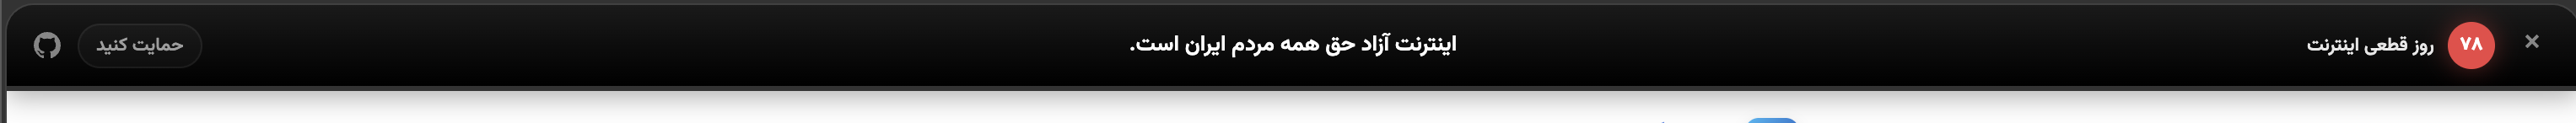
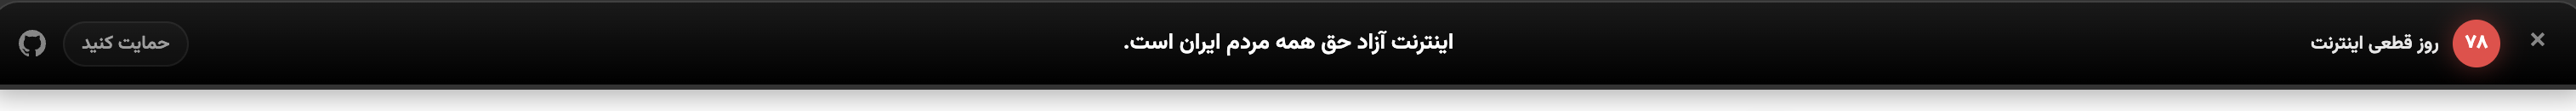
improvement

diff --git a/README.md b/README.md
@@ -1,0 +1,101 @@
+# 🚫  اینترنت آزاد حق همه مردم ایران است
+
+<div dir="rtl">
+یک ابزار ساده برای اعتراض به محدودیتهای اینترنت در ایران.
+
+با اضافه کردن یک خط کد به وبسایت خود، صدای مردم در روزهای سیاهی و سختی دیجیتال باشید.
+
+## نمونه
+![Demo Small Size](demo-sm.png)
+![Demo Medium Size](demo-md.png)
+![Demo Large Size](demo-lg.png)
+
+
+(متن و اندازه قابل تغییر است)
+
+## چرا؟
+
+
+اینترنت طبقاتی (پرو) رشد و پیشرفت را در انحصار گروههای خاص (پردرآمدها، سیاستمداران، دانشگاهیان و...) میکند تا از طریق منافع فکری،اقتصادی و سیاسی اقلیتهای خاص را حفظ کند.
+
+هدف اینترنت طبقاتی امنیت است اما امنیت همان گروههای خاص: گروههایی که سالهاست به نام صیانت، به نام اقتصاد و حاکمیت مجازی و امروز به نام امنیت به دنبال قطعی و محدودسازی اینترنت هستند. چرا که با اینترنت محدود راحتتر میشود تودههای مردم را کنترل کرد و جلوی صداهای متفاوت و ایدههای تازه را گرفت.
+
+---
+
+##  شروع سریع
+
+کافیست کد زیر را بعد تگ `<body>` وبسایت خود قرار دهید:
+
+```html
+<script src="https://unpkg.com/iran-net-protest-banner@latest/protest.js"></script>
+```
+
+> [!TIP]
+> با توجه به احتمال بسته شدن سرویسهای باز فعلی بهتر است فایل protest.js را به صورت دستی در وب سایت خود قرار داده و سپس آدرس آنرا در کد بالا جایگزین کنید. البته در صورتی که فنی نیستید بهتر است از همان کد بالا استفاده کنید.
+---
+
+## 🛠 تغییر متن اعتراضی و اندازه 
+
+شما میتوانید رفتار و ظاهر اسکریپت را با استفاده از پارامترهای زیر  تغییر دهید مثالهای پایین را ببینید.
+
+| پارامتر | توضیحات | مقادیر ممکن | پیشفرض |
+| :--- | :--- | :--- | :--- |
+| `size` | اندازه نوار ابزار کوچک، متوسط یا بزرگ | `sm`, `md`, `lg` | `md` |
+| `countdown` | نمایش یا عدم نمایش تعداد روزهای قطعی | `true`, `false` | `true` |
+| `text` | متن پیام اعتراضی | هر متن دلخواه |اینترنت آزاد حق همه مردم ایران است   |
+
+### 📝 مثالها
+
+#### ۱. حالت مینیمال (کوچک و ساده)
+```html
+<script src="{YOUR_ADDRESS_HERE}/protest.js?size=sm&countdown=false"></script>
+```
+
+#### ۲. بنر بزرگ با پیام اختصاصی
+```html
+<script src="{YOUR_ADDRESS_HERE}/protest.js?size=lg&text=اینترنت_حق_پایه_انسانی_است"></script>
+```
+
+#### ۳. استفاده در سایتهای انگلیسیزبان
+```html
+<script src="{YOUR_ADDRESS_HERE}/protest.js?text=Internet_Access_is_a_Right"></script>
+```
+
+---
+
+## 💻 اجرای محلی (برای افراد فنی)
+
+اگر میخواهید تغییراتی در اسکریپت ایجاد کنید یا آن را تست کنید:
+
+۱. مخزن را کلون کنید:
+```bash
+git clone https://github.com/[YOUR_USERNAME]/net.git
+```
+
+۲. یک سرور محلی اجرا کنید:
+```bash
+npx serve .
+```
+
+---
+
+## 🤝 مشارکت
+
+ از هرگونه مشارکت برای بهبود این ابزار استقبال میکنیم! 
+- اگر باگی پیدا کردید، یک **Issue** ثبت کنید.
+- اگر پیشنهادی دارید، **Pull Request** بفرستید.
+
+---
+
+## 📜 مجوز
+
+این پروژه تحت لایسنس **MIT** منتشر شده است. استفاده از آن برای اهداف خیرخواهانه و آگاهیرسانی کاملاً آزاد است.
+
+---
+
+<p align="center">
+  <b>#InternetFreedom #IranNetShutdown #FreedomOfSpeech #آزادی_اینترنت</b>
+</p>
+
+
+</div>